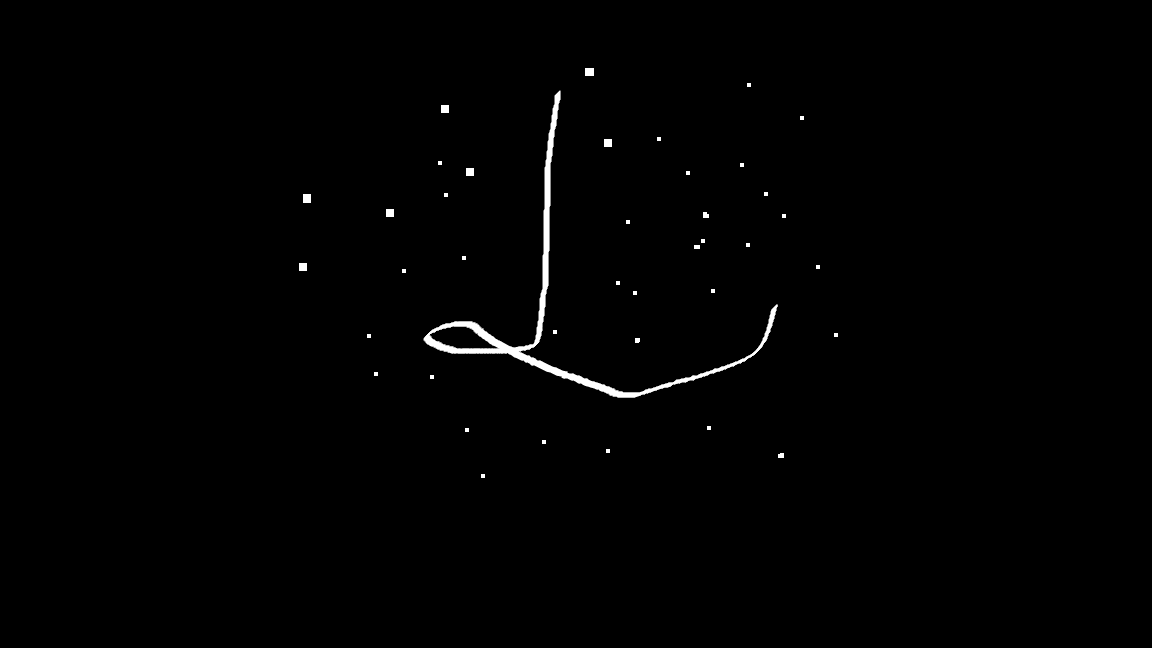
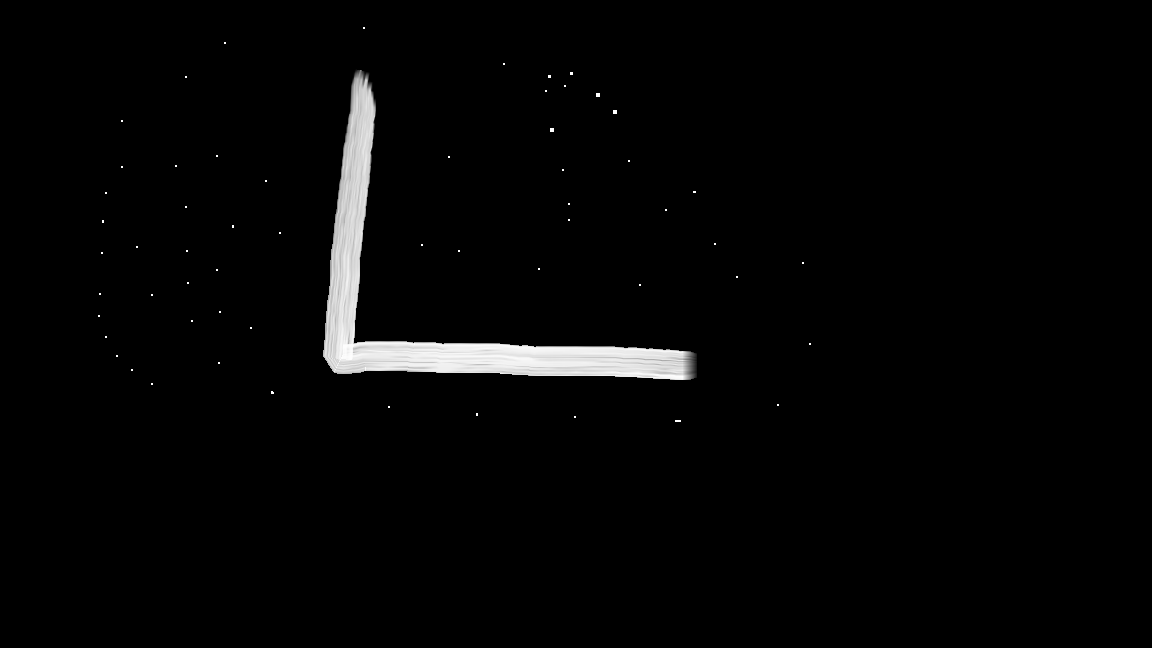
final

Changed region(s): [[0.2812, 0.1235, 0.6562, 0.6173], [0.4688, 0.1543, 0.5, 0.4938], [0.6562, 0.463, 0.6875, 0.5247]]

diff --git a/convex hull.py b/convex hull.py
@@ -1,14 +1,20 @@
 import cv2
-img1 = cv2.imread('test duong bao.png')
+import matplotlib.pyplot as plt
+img1 = cv2.imread('test skel.png')
 img = cv2.cvtColor(img1, cv2.COLOR_BGR2GRAY)
 # Threshold the image
 ret, thresh = cv2.threshold(img,50,255,0)
 # Find the contours
-contours, hierarchy = cv2.findContours(thresh, cv2.RETR_TREE, cv2.CHAIN_APPROX_SIMPLE)
+contours, hierarchy = cv2.findContours(thresh, cv2.RETR_TREE, 
+cv2.CHAIN_APPROX_SIMPLE)
 # For each contour, find the convex hull and draw it
 # on the original image.
 for i in range(len(contours)):
-    hull = cv2.convexHull(contours[i])
-    cv2.drawContours(img1, [hull], -1, (255, 0, 0), 2)
-cv2.imshow('ConvexHull', img1)
-cv2.waitKey(0)
+ hull = cv2.convexHull(contours[i])
+ cv2.drawContours(img1, [hull], -1, (255, 0, 0), 2)
+fig,anh=plt.subplots(1,2,figsize=(16,9))
+anh[0].imshow(img,cmap='gray')
+anh[1].imshow(img1,cmap='gray')
+anh[0].set_title('Ảnh gốc')
+anh[1].set_title('Ảnh Convex')
+plt.show()

diff --git a/phep dong.py b/phep dong.py
@@ -3,13 +3,13 @@ import numpy as np
 import matplotlib.pyplot as plt
 img = cv2.imread('sample_closing.png')
 kernel = np.ones((9,9),np.uint8)
-closing = cv2.morphologyEx(img, cv2.MORPH_CLOSE, kernel)
-# cv2.imshow("image", img)
-# closing=cv2.resize(closing,(0,0),fx=2,fy=2)
-# cv2.imshow("closing image", closing)
-fig,anh=plt.subplots(2,1,figsize=(16,9))
+closing = cv2.morphologyEx(img, cv2.MORPH_CLOSE, kernel,iterations=1)
+closing3 = cv2.morphologyEx(img, cv2.MORPH_CLOSE, kernel,iterations=3)
+fig,anh=plt.subplots(1,3,figsize=(16,9))
 anh[0].imshow(img,cmap='gray')
 anh[1].imshow(closing,cmap='gray')
+anh[2].imshow(closing3,cmap='gray')
+anh[0].set_title('Ảnh gốc')
+anh[1].set_title('Ảnh Closing')
+anh[2].set_title('Ảnh Closing lặp 3')
 plt.show()
-# cv2.waitKey(0)
-# cv2.destroyAllWindows()

diff --git a/phep mo.py b/phep mo.py
@@ -1,9 +1,15 @@
 import cv2
 import numpy as np
-img = cv2.imread("text1.png")
-kernel = np.ones((7,7),np.uint8)
-opening = cv2.morphologyEx(img, cv2.MORPH_OPEN, kernel)
-cv2.imshow("image", img)
-cv2.imshow("opening image", opening)
-cv2.waitKey(0)
-cv2.destroyAllWindows()
+import matplotlib.pyplot as plt
+img = cv2.imread('sample_opening.png',0)
+kernel = np.ones((3,3),np.uint8)
+opening = cv2.morphologyEx(img, cv2.MORPH_OPEN, kernel,iterations=1)
+opening3 = cv2.morphologyEx(img, cv2.MORPH_OPEN, kernel,iterations=3)
+fig,anh=plt.subplots(1,3,figsize=(16,9))
+anh[0].imshow(img,cmap='gray')
+anh[1].imshow(opening,cmap='gray')
+anh[2].imshow(opening3,cmap='gray')
+anh[0].set_title('Ảnh gốc')
+anh[1].set_title('Ảnh Opening')
+anh[2].set_title('Ảnh Opening lặp 3')
+plt.show()

diff --git a/Top_hat and Black_hat.py b/Top_hat and Black_hat.py
@@ -1,0 +1,21 @@
+import cv2
+import numpy as np
+import matplotlib.pyplot as plt
+img = cv2.imread("top_hat.png")
+kernel = np.ones((5,5),np.uint8)
+tophat = cv2.morphologyEx(img, cv2.MORPH_TOPHAT, kernel, 
+iterations=3)
+img1=cv2.imread('black_hat.jpg',0)
+filterSize =(3, 3)
+kernel1 = cv2.getStructuringElement(cv2.MORPH_RECT,filterSize)
+blackhat = cv2.morphologyEx(img1,cv2.MORPH_BLACKHAT,kernel1,iterations=1)
+fig,anh=plt.subplots(2,2,figsize=(16,9))
+anh[0,0].imshow(img,cmap='gray')
+anh[0,1].imshow(tophat,cmap='gray')
+anh[1,0].imshow(img1,cmap='gray')
+anh[1,1].imshow(blackhat,cmap='gray')
+anh[0,0].set_title('Ảnh gốc')
+anh[0,1].set_title('Ảnh Top hat')
+anh[1,0].set_title('Ảnh gốc')
+anh[1,1].set_title('Ảnh Blac hat')
+plt.show()

diff --git a/skeletonize.py b/skeletonize.py
@@ -1,6 +1,9 @@
 import cv2
 import numpy as np
+import matplotlib.pyplot as plt
 img = cv2.imread('test skel.png',0)
+fig,anh=plt.subplots(1,2,figsize=(16,9))
+anh[0].imshow(img,cmap='gray')
 size = np.size(img)
 skel = np.zeros(img.shape, np.uint8)
 ret, img = cv2.threshold(img, 127, 255, 0)
@@ -17,6 +20,9 @@ while (not done):
     zeros = size - cv2.countNonZero(img)
     if zeros == size:
         done = True
-cv2.imshow("skel", skel)
-cv2.waitKey(0)
-cv2.destroyAllWindows()
+
+# anh[0].imshow(img,cmap='gray')
+anh[1].imshow(skel,cmap='gray')
+anh[0].set_title('Ảnh gốc')
+anh[1].set_title('Ảnh Xương hóa')
+plt.show()

diff --git a/lay duong bao.py b/lay duong bao.py
@@ -1,11 +1,14 @@
 import cv2
 import numpy as np
+import matplotlib.pyplot as plt
 img = cv2.imread("test duong bao.png")
 kernel = np.ones((3,3),np.uint8)
 
 eroded = cv2.morphologyEx(img, cv2.MORPH_ERODE, kernel)
 bound = cv2.subtract(img, eroded)
-cv2.imshow("image", img)
-cv2.imshow("bound image", bound)
-cv2.waitKey(0)
-cv2.destroyAllWindows()
+fig,anh=plt.subplots(1,2,figsize=(16,9))
+anh[0].imshow(img,cmap='gray')
+anh[1].imshow(bound,cmap='gray')
+anh[0].set_title('Ảnh gốc')
+anh[1].set_title('Ảnh Boundary')
+plt.show()

diff --git a/dialation.py b/dialation.py
@@ -1,0 +1,15 @@
+import cv2
+import numpy as np
+import matplotlib.pyplot as plt
+img=cv2.imread('sample_dilation.png',0)
+kernel=np.ones((3,3),dtype=np.uint8)
+imgDilation=cv2.dilate(img,kernel,iterations=1)
+imgDilation3=cv2.dilate(img,kernel,iterations=3)
+fig,anh=plt.subplots(1,3,figsize=(16,9))
+anh[0].imshow(img,cmap='gray')
+anh[1].imshow(imgDilation,cmap='gray')
+anh[2].imshow(imgDilation3,cmap='gray')
+anh[0].set_title('Ảnh gốc')
+anh[1].set_title('Ảnh Erosion')
+anh[2].set_title('Ảnh Erosion 3 lần')
+plt.show()

diff --git a/erosion.py b/erosion.py
@@ -1,0 +1,15 @@
+import cv2
+import numpy as np
+import matplotlib.pyplot as plt
+img=cv2.imread('Sample_erosion.png',0)
+kernel=np.ones((3,3),dtype=np.uint8)
+imgErosion=cv2.erode(img,kernel,iterations=1)
+imgErosion3=cv2.erode(img,kernel,iterations=3)
+fig,anh=plt.subplots(1,3,figsize=(16,9))
+anh[0].imshow(img,cmap='gray')
+anh[1].imshow(imgErosion,cmap='gray')
+anh[2].imshow(imgErosion3,cmap='gray')
+anh[0].set_title('Ảnh gốc')
+anh[1].set_title('Ảnh Erosion')
+anh[2].set_title('Ảnh Erosion 3 lần')
+plt.show()
